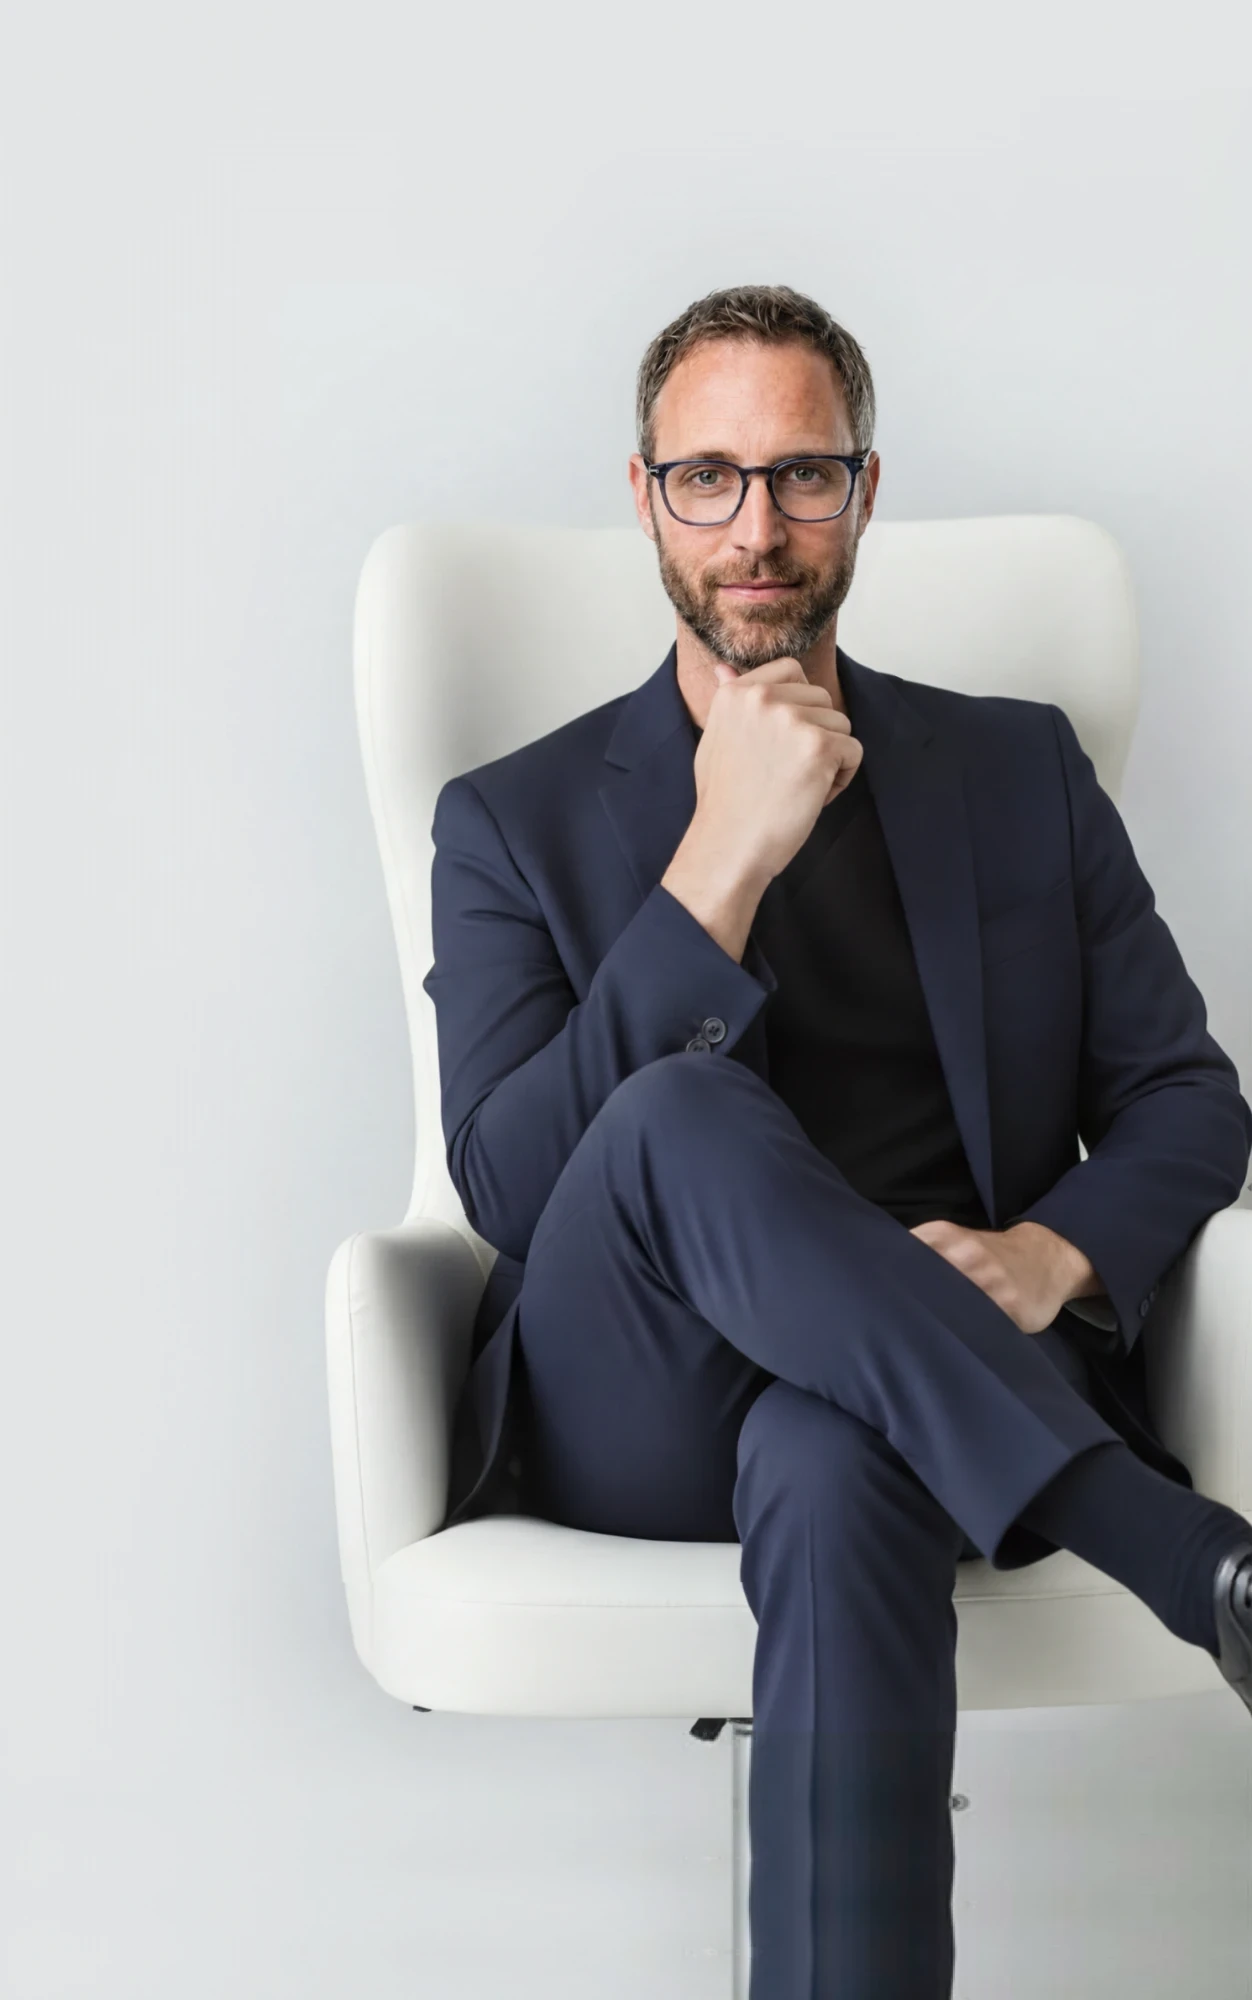
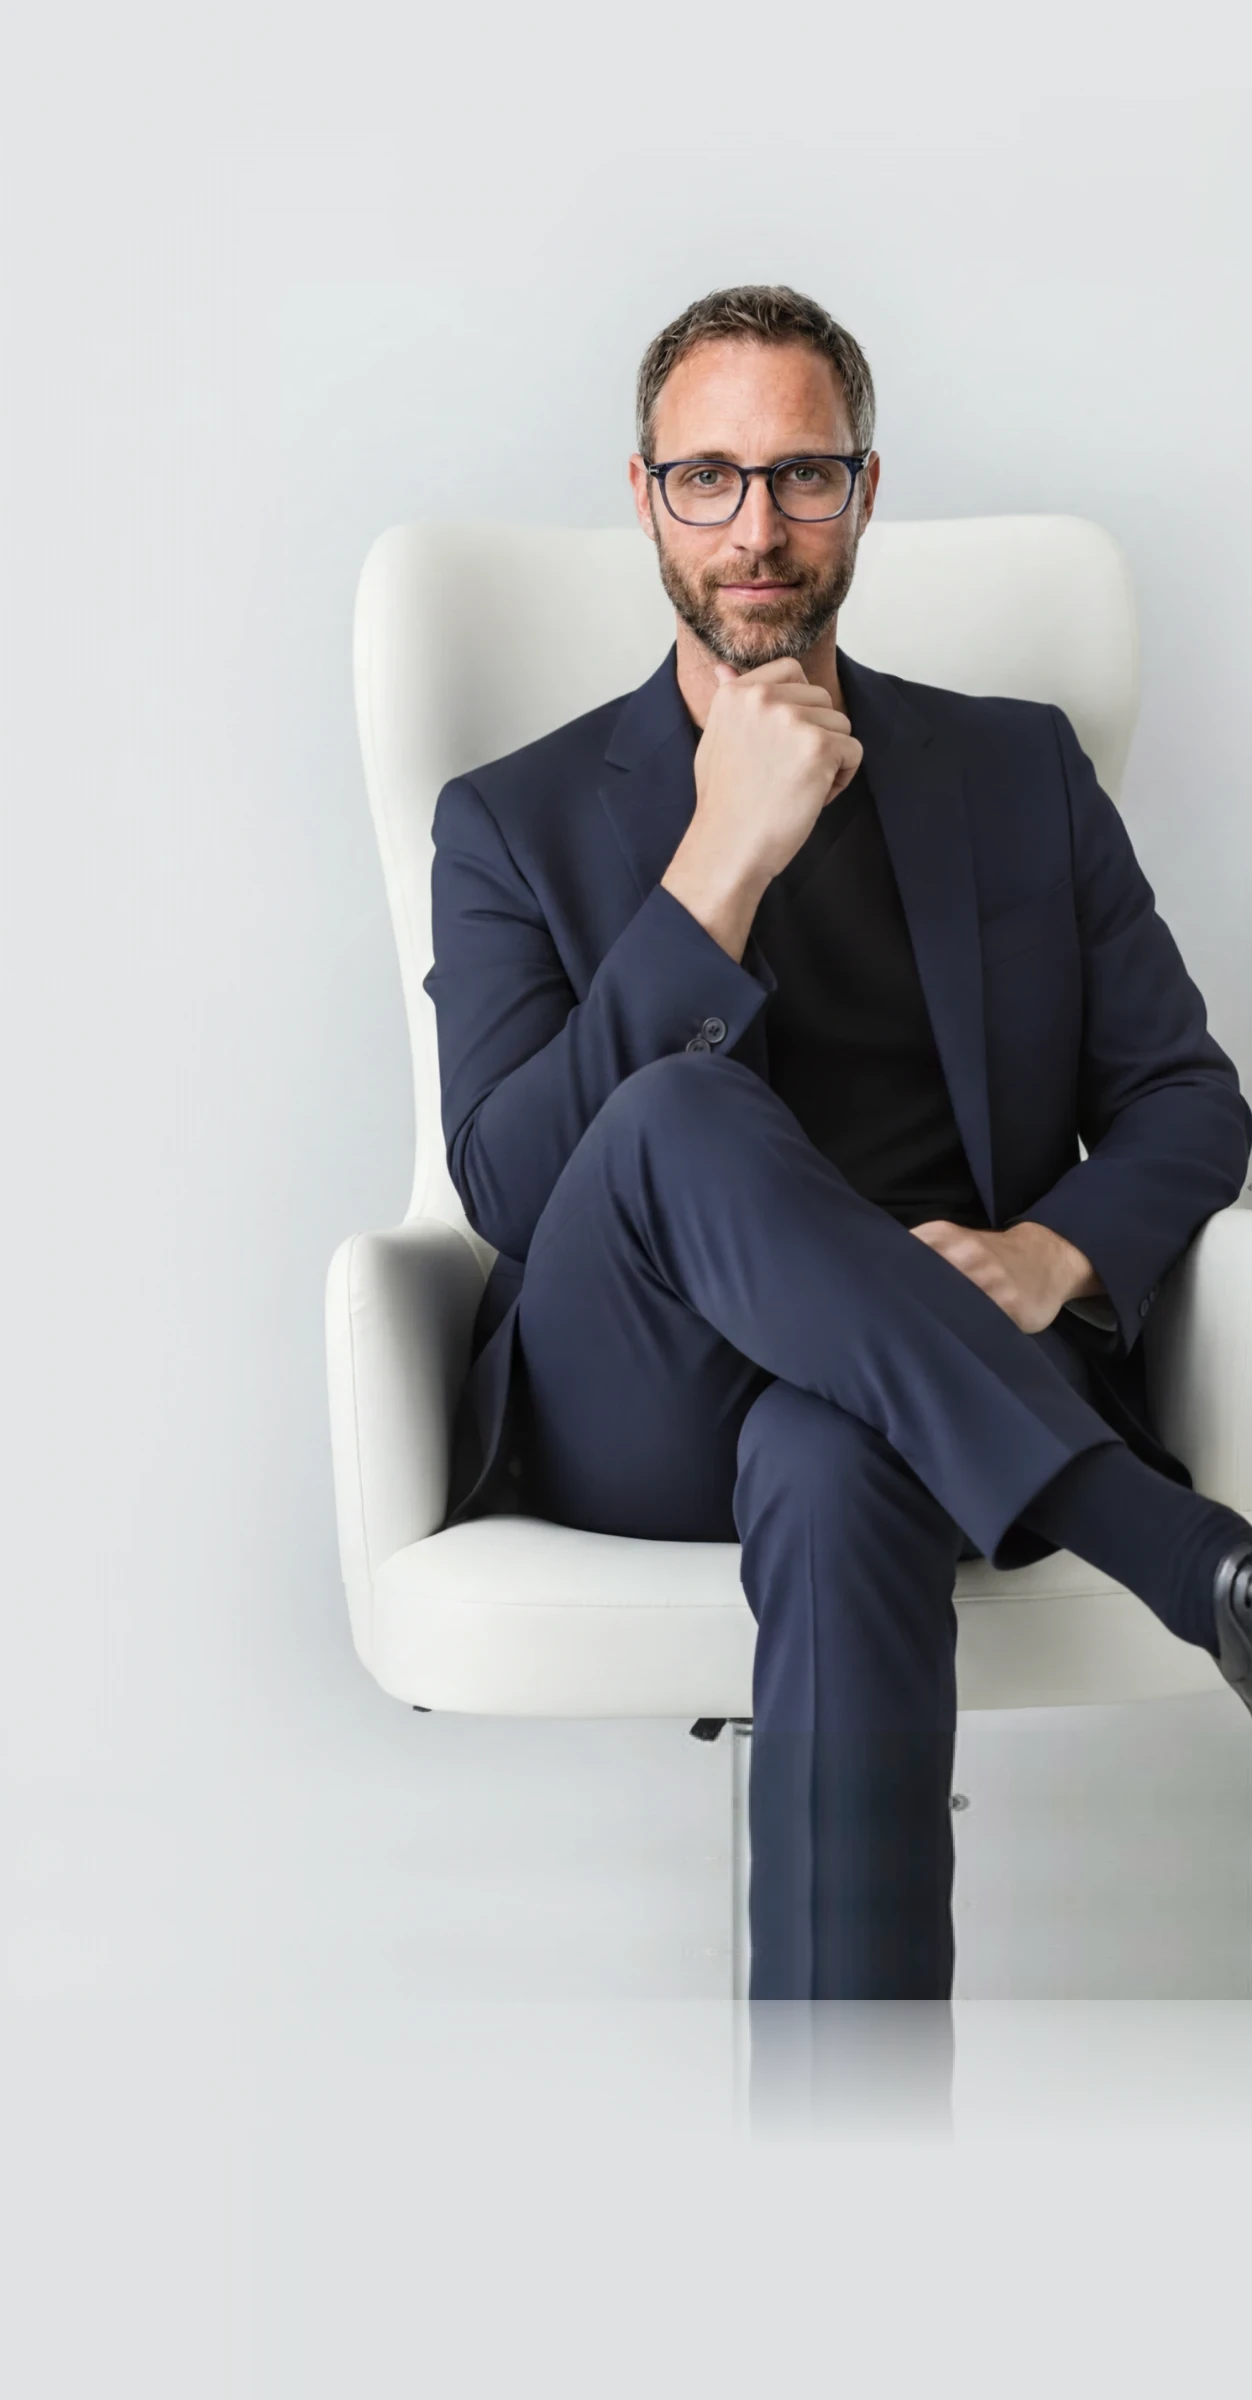
The grey band: nothing was hanging below the figure
Will, on ?viewport2: "The bottom of the page has some fading and is
cut." It does. A bare grey strip under the photograph.

--portrait-extra went to 0 last round on the reading that his own expand
had made the file the whole artwork. It had not. His expand widened the
frame; the bottom edge still runs through the trouser leg, so nothing
hangs below the figure. The photograph therefore ended exactly on the
hero's bottom edge — and iOS paints the page past the viewport, down to
the glass. Below that edge: page background.

Invisible on the real page, where the dark section begins on the same
line. Impossible to miss in ?viewport2, where the section is hidden and
there is nothing to fill it.

400 rows added to his 2000 — mirror, then the hard early fade, the
third approach in extend-portrait.py — and --portrait-extra set to 0.20
to match. 0.20 rather than the old 0.45 because it only has to cover
that strip, not carry a design idea: the tallest screen measured leaves
80 points under the hero, and 0.20 puts --portrait-sink at 88.

--portrait-crop is untouched, so the figure does not move. Measured at
414x796 with a 40pt toolbar: crop 488 as before, artwork bottom 88
points below the hero's, no strip at any width.

  1252x2400, WebP q90, 68.2 KB

diff --git a/css/common.css b/css/common.css
@@ -221,16 +221,27 @@
   /* How much taller the artwork is than the framing --portrait-crop
      describes.
      
-     0, because the extension is now part of the photograph. Will did it
-     by hand in an image tool — which is what design/v2/SPEC.md asked for
-     all along, and what server/scripts/extend-portrait.py existed to
-     stand in for until someone did. The file is the whole artwork; there
-     is nothing for the code to add.
+     400 rows added to Will's 2000, so 0.20.
      
-     Everything downstream falls out of this on its own: --portrait-strip
-     and --portrait-sink both go to 0, and .hero::before stops being
-     taller than the hero it sits in. */
-  --portrait-extra: 0;
+     It was 0 for one round, on the reading that his own expand had made
+     the file the whole artwork. It had not: his expand widened the
+     frame, and the bottom edge still runs through the trouser leg. With
+     nothing hanging below the figure, the photograph ended exactly on
+     the hero's bottom edge — and iOS paints the page past the viewport,
+     down to the glass, so below that edge was a bare grey strip of page
+     background. Invisible on the real page, where the dark section
+     starts on that same line, and impossible to miss in ?viewport2,
+     where the section is hidden and there is nothing to fill it.
+     
+     0.20 rather than the old 0.45 because it only has to cover that
+     strip, not a whole design idea: on the tallest screen measured it
+     is 80 points, and 0.20 puts --portrait-sink at 88.
+     
+     --portrait-crop still means what it always meant — the height HE is
+     drawn at — so his size and position do not move. The extra hangs
+     below the first screen and is what the cut eats, instead of his
+     feet. */
+  --portrait-extra: 0.20;
 
   /* -------------------- Filters -------------------- */
   --icon-filter: invert(0);  /* Icon color filter (0 = no inversion for light mode) */

diff --git a/index.html b/index.html
@@ -43,7 +43,7 @@
     <link href="assets/favicon.png" rel="icon" type="image/png">
 
     <!-- Other links, like styles -->
-    <link href="css/index.css?v=ef99190d" rel="stylesheet" type="text/css">
+    <link href="css/index.css?v=1ac47bb2" rel="stylesheet" type="text/css">
 
     <!-- Page script -->
     <script src="scripts/index.js?v=67343357" type="module" defer></script>

diff --git a/css/index.css b/css/index.css
@@ -1,7 +1,7 @@
 /* Import base styles and variables from common.css and others */
-@import "./common.css?v=be9367ac";
-@import "./chat-input.css?v=fae963bf";
-@import "./chat-content.css?v=1a699206";
+@import "./common.css?v=9b09870b";
+@import "./chat-input.css?v=376ea697";
+@import "./chat-content.css?v=8d2df6ee";
 @import "./more.css?v=35c5f5ee";
 
 /* 

diff --git a/css/chat-input.css b/css/chat-input.css
@@ -1,5 +1,5 @@
 /* Import base styles and variables from common.css */
-@import "./common.css?v=be9367ac";
+@import "./common.css?v=9b09870b";
 
 /* 
  * =====================================================

diff --git a/css/chat-content.css b/css/chat-content.css
@@ -1,5 +1,5 @@
 /* Import base styles and variables from common.css */
-@import "./common.css?v=be9367ac";
+@import "./common.css?v=9b09870b";
 @import "./thinking-loader.css?v=b8e27d2d";
 
 /* 
